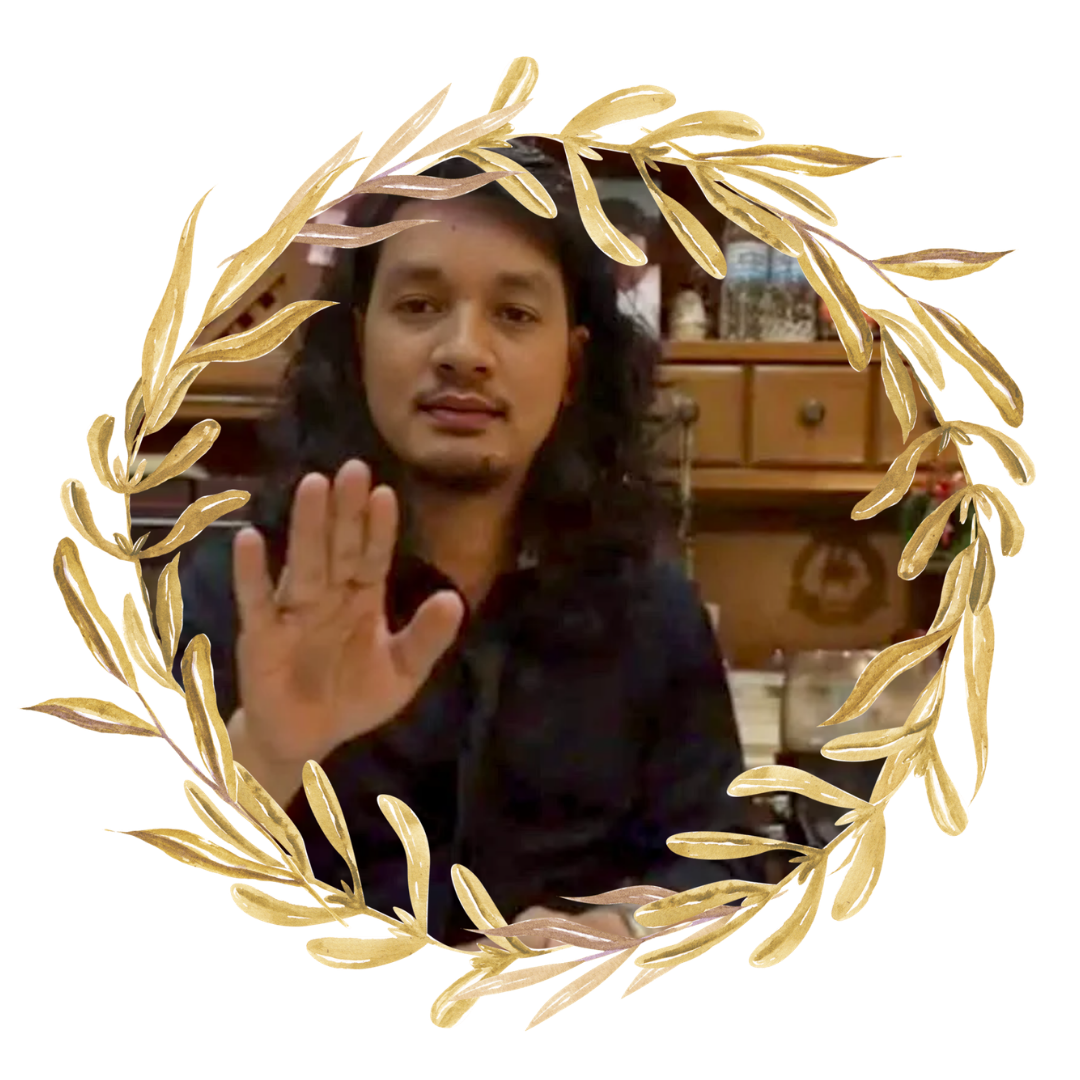
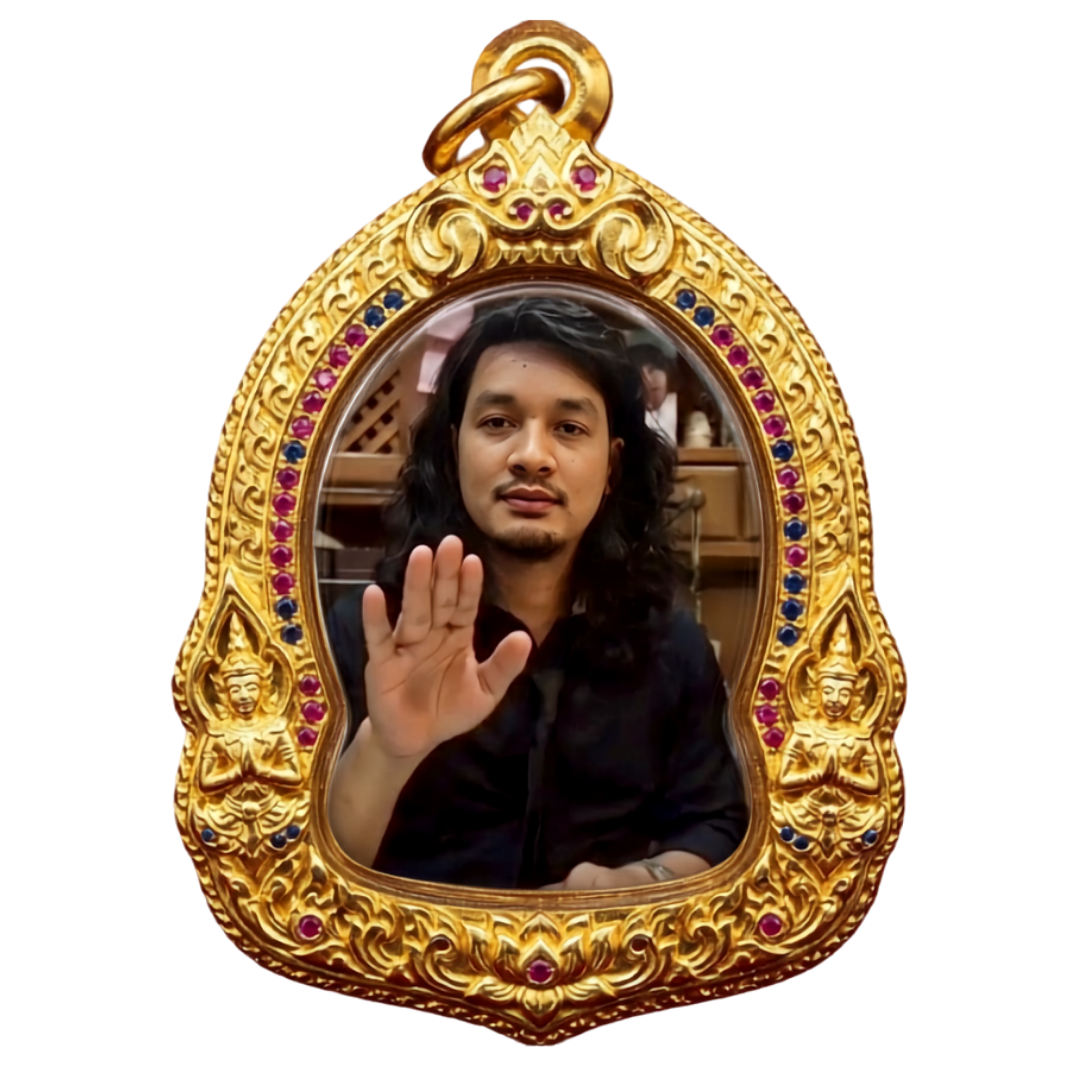
Add passed ribbon to level cards, style login page as a wordmark
- LevelCard: a "passed" ribbon bands diagonally across the corner
  once a level has a best result, and the difficulty tag hides in
  that state (the ribbon replaces it as the at-a-glance status).
- LoginPage: split the login title into a proper wordmark ("URRWNM"
  in copper, uppercase, letter-spaced) plus a muted tagline ("Line
  Tracking Robot"), matching the navbar's established copper-wordmark
  treatment instead of a plain page heading — admin mode keeps its
  own plain .title heading, unaffected.
- Swap login-avatar.png to the provided replacement image.

diff --git a/src/i18n/translations.ts b/src/i18n/translations.ts
@@ -10,7 +10,8 @@ export const translations = {
   'nav.admin': { en: 'Admin', th: 'แอดมิน' },
 
   // Login
-  'login.title': { en: 'URRWNM Line Tracking Robot', th: 'URRWNM Line Tracking Robot' },
+  'login.brand': { en: 'URRWNM', th: 'URRWNM' },
+  'login.brandTagline': { en: 'Line Tracking Robot', th: 'Line Tracking Robot' },
   'login.subtitle': { en: 'Enter your 5-digit student ID to continue', th: 'กรอกรหัสนักเรียน 5 หลักเพื่อดำเนินการต่อ' },
   'login.idLabel': { en: '5-digit student ID', th: 'รหัสนักเรียน 5 หลัก' },
   'login.continue': { en: 'Continue', th: 'ดำเนินการต่อ' },
@@ -97,6 +98,7 @@ export const translations = {
 
   // Level list/card
   'level.notCompleted': { en: 'Not completed yet', th: 'ยังไม่ผ่านด่านนี้' },
+  'level.passed': { en: 'Passed', th: 'ผ่านแล้ว' },
   'difficulty.beginner': { en: 'beginner', th: 'เริ่มต้น' },
   'difficulty.easy': { en: 'easy', th: 'ง่าย' },
   'difficulty.medium': { en: 'medium', th: 'ปานกลาง' },

diff --git a/src/components/levels/LevelCard.module.css b/src/components/levels/LevelCard.module.css
@@ -1,4 +1,6 @@
 .card {
+  position: relative;
+  overflow: hidden;
   display: flex;
   flex-direction: column;
   gap: 6px;
@@ -42,6 +44,26 @@
   box-shadow: var(--depth-raised);
   transform: perspective(var(--tilt-perspective)) rotateX(var(--tilt-x, 0deg)) rotateY(var(--tilt-y, 0deg))
     translateZ(6px);
+}
+
+/* A QC-passed sticker banded diagonally across the corner — the kind of inspection label a
+   real assembled board carries once it clears test, not a decorative corner flourish. */
+.passedRibbon {
+  position: absolute;
+  top: 16px;
+  right: -38px;
+  width: 140px;
+  padding: 4px 0;
+  background: var(--success);
+  color: var(--panel-recessed);
+  font-size: 13px;
+  font-weight: 700;
+  text-align: center;
+  text-transform: uppercase;
+  letter-spacing: 0.04em;
+  transform: rotate(45deg);
+  box-shadow: 0 1px 3px rgba(2, 12, 14, 0.4);
+  pointer-events: none;
 }
 
 .header {

diff --git a/src/components/auth/LoginPage.module.css b/src/components/auth/LoginPage.module.css
@@ -65,6 +65,32 @@
   object-fit: contain;
 }
 
+/* The app's wordmark, not a generic page heading — same copper-on-dark treatment as the navbar
+   logo (DESIGN.md: "the navbar's pad mark and wordmark" is a named legitimate copper use), sized
+   for a hero moment on the single screen every student sees first. */
+.brand {
+  display: flex;
+  flex-direction: column;
+  align-items: center;
+  gap: 4px;
+  margin-bottom: 8px;
+}
+
+.brandName {
+  font-size: 20px;
+  font-weight: 700;
+  text-transform: uppercase;
+  letter-spacing: 0.06em;
+  color: var(--accent);
+}
+
+.brandTagline {
+  font-size: 14px;
+  font-weight: 400;
+  color: var(--text-muted);
+}
+
+/* The plain page heading used by the admin-mode form — unlike .brand, this isn't a wordmark. */
 .title {
   font-size: 20px;
   margin-bottom: 8px;

diff --git a/src/components/levels/LevelCard.tsx b/src/components/levels/LevelCard.tsx
@@ -32,9 +32,10 @@ export function LevelCard({ level, selected, best, onSelect }: LevelCardProps) {
       className={`${styles.card} ${selected ? styles.selected : ''}`}
       onClick={onSelect}
     >
+      {best && <span className={styles.passedRibbon}>{t('level.passed')}</span>}
       <div className={styles.header}>
         <span className={styles.name}>{tLevelName(level.id, level.name)}</span>
-        <span className={styles.difficulty}>{t(DIFFICULTY_KEYS[level.difficulty])}</span>
+        {!best && <span className={styles.difficulty}>{t(DIFFICULTY_KEYS[level.difficulty])}</span>}
       </div>
       <div className={styles.best}>
         {best ? (

diff --git a/src/components/auth/LoginPage.tsx b/src/components/auth/LoginPage.tsx
@@ -84,7 +84,11 @@ export function LoginPage() {
     <div className={styles.page}>
       <form className={styles.card} onSubmit={handleStudentSubmit}>
         <img className={styles.avatar} src={loginAvatar} alt="" aria-hidden="true" />
-        <h1 className={styles.title}>{t('login.title')}</h1>
+        <h1 className={styles.brand}>
+          <span className={styles.brandName}>{t('login.brand')}</span>
+          {' '}
+          <span className={styles.brandTagline}>{t('login.brandTagline')}</span>
+        </h1>
         <p className={styles.subtitle}>{t('login.subtitle')}</p>
         <input
           className={styles.digits}
